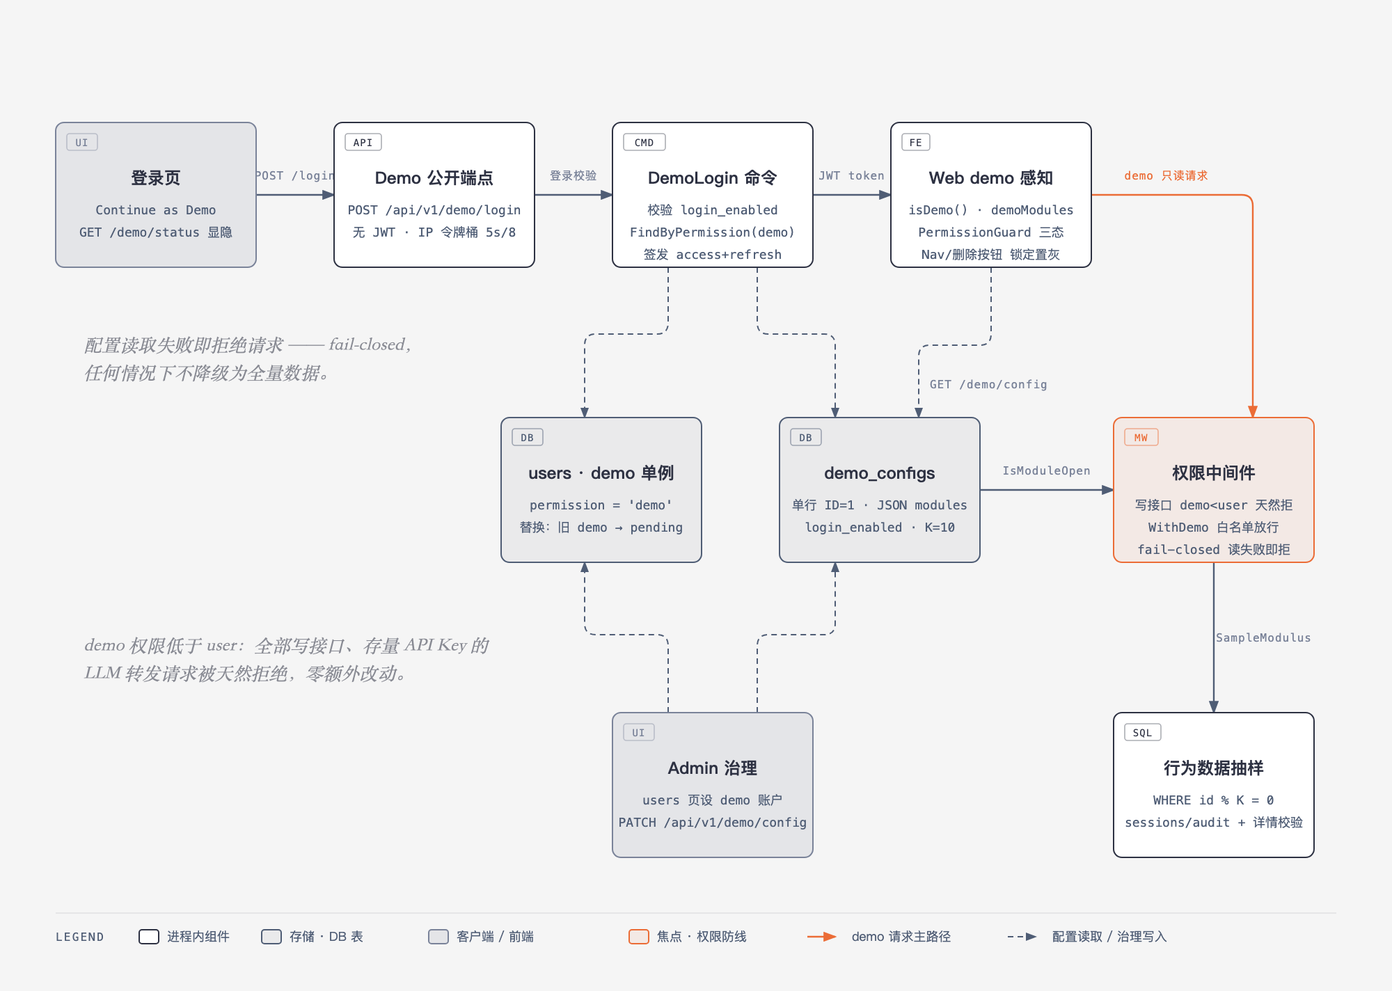
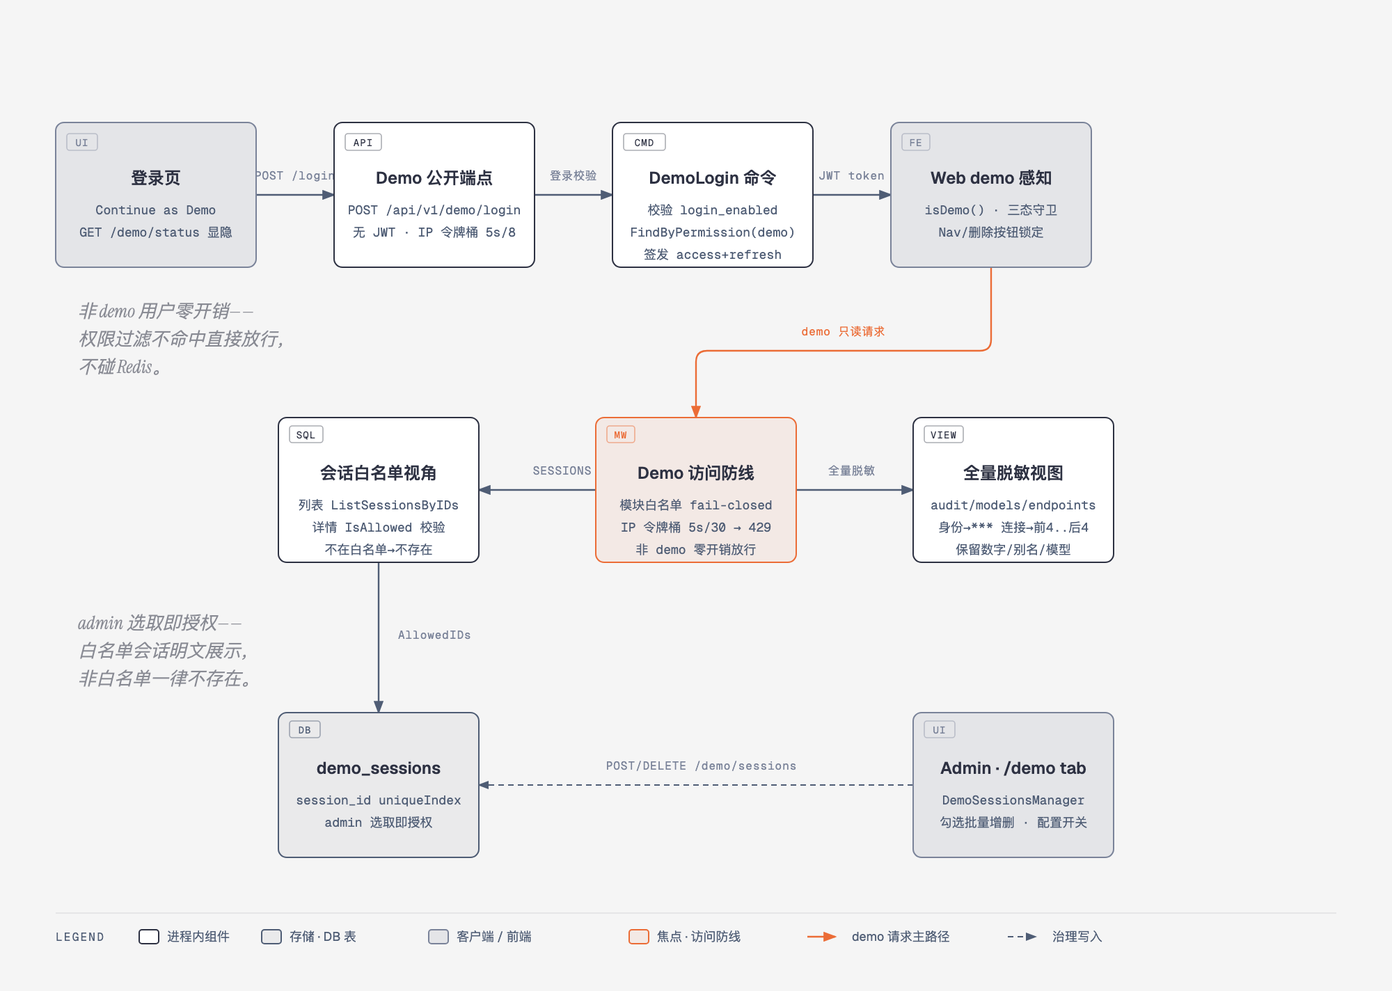
docs(diagrams): 重绘 Demo 演示账户架构图（白名单/脱敏/IP 限流）
针对 018f1ea3 demo 数据展示重设计更新第 13 图：砍掉取模抽样，
改为 demo_sessions 白名单（列表 ListSessionsByIDs · 详情 IsAllowed
防遍历）+ audit/models/endpoints 全量脱敏（MaskIdentity/MaskSecret）
+ demoAccess IP 令牌桶 5s/30（WithPermissionFilter 非 demo 零开销）
+ admin 独立 /demo tab 治理；README demo 段落同步更新。

diff --git a/docs/diagrams/aris-proxy-api-architecture.html b/docs/diagrams/aris-proxy-api-architecture.html
@@ -1941,15 +1941,15 @@
     </div>
 
     <!-- ============================================================ -->
-    <!-- 图 13 · Demo 演示账户架构 → aris-demo-account.png -->
+    <!-- 图 13 · Demo 演示账户架构（白名单重设计）→ aris-demo-account.png -->
     <!-- ============================================================ -->
     <div class="section">
-      <div class="section-head"><span class="idx">13</span><h2>Demo 演示账户架构</h2></div>
-      <p class="section-sub">四级权限 pending(1) &lt; demo(2) &lt; user(3) &lt; admin(4)：登录页「Continue as Demo」经无鉴权 IP 限流端点（5s/8）一键登录，DemoLogin 命令校验 login_enabled 并定位 demo 单例用户签发 JWT；前端 isDemo() + demoModules 驱动 PermissionGuard 三态守卫与 Nav/删除按钮锁定；admin 经 users 页与 PATCH /api/v1/demo/config 治理；运行时权限中间件按模块白名单放行（fail-closed），行为数据 WHERE id % K = 0 抽样，写接口与存量 API Key 因 demo &lt; user 天然拒绝。</p>
+      <div class="section-head"><span class="idx">13</span><h2>Demo 演示账户架构 · 白名单重设计</h2></div>
+      <p class="section-sub">四级权限 pending &lt; demo &lt; user &lt; admin：登录页「Continue as Demo」经 IP 限流端点（5s/8）一键登录签发 JWT；demo 只读请求过访问防线——模块白名单 fail-closed + demoAccess IP 令牌桶 5s/30（WithPermissionFilter 非 demo 零开销，超限 429 + Retry-After）——分两路视角：会话走 demo_sessions 白名单（列表 ListSessionsByIDs · 详情 IsAllowed 不在即"不存在"防遍历），audit/models/endpoints 全量但脱敏（身份 MaskIdentity → *** · 连接类 MaskSecret → 前4..后4 · 保留数字与别名）；admin 在独立 /demo tab 勾选批量增删白名单。</p>
       <div class="diagram-container">
 <svg class="diagram" viewBox="0 0 1000 712" xmlns="http://www.w3.org/2000/svg" role="img" aria-labelledby="demo-title demo-desc">
-            <title id="demo-title">Demo 演示账户架构</title>
-            <desc id="demo-desc">Demo 演示账户架构：登录页一键 Demo 登录经无鉴权 IP 限流端点进入 DemoLogin 命令，校验 login_enabled 并按 permission 定位 demo 单例用户后签发 JWT；前端以 isDemo 与 demoModules 驱动 PermissionGuard 三态守卫和导航、删除按钮锁定；admin 在 users 页设置 demo 账户（旧的降为 pending）并经 PATCH demo config 写入单行配置表（登录开关、模块白名单、抽样模数）；demo 只读请求经权限中间件白名单放行且 fail-closed，行为数据按 id 取模抽样（列表、聚合与详情校验），全部写接口与存量 API Key 的转发因 demo 权限低于 user 被天然拒绝。</desc>
+            <title id="demo-title">Demo 演示账户架构 · 白名单重设计</title>
+            <desc id="demo-desc">Demo 演示账户架构（白名单重设计）：登录页一键 Demo 登录经 IP 限流端点与 DemoLogin 命令签发 JWT；demo 只读请求先过访问防线——模块白名单 fail-closed 与 demoAccess IP 令牌桶（5s/30，超限 429），非 demo 用户权限过滤零开销放行；随后分两路：会话按 demo_sessions 白名单视角查询（列表按 ID 集合、详情校验成员、不在白名单返回不存在以防遍历），audit/models/endpoints 全量返回但身份字段脱敏为星号、连接字段保留首尾四字符，统计数字与别名保留；admin 在独立 demo tab 勾选批量增删白名单会话。</desc>
             <rect width="100%" height="100%" fill="#f5f5f5"/>
 
             <!-- ARROWS (before nodes) -->
@@ -1966,33 +1966,29 @@
             <rect x="586" y="120" width="52" height="12" rx="2" fill="#f5f5f5"/>
             <text x="612" y="129" fill="#7a8399" font-size="8" font-family="'Geist Mono', monospace" text-anchor="middle" letter-spacing="0.06em">JWT token</text>
 
-            <!-- demo 只读请求（accent 主路径） -->
-            <path d="M 784,140 H 892 Q 900,140 900,148 V 300" fill="none" stroke="#eb6c36" stroke-width="1.2" marker-end="url(#arrow-accent)"/>
-            <rect x="800" y="120" width="76" height="12" rx="2" fill="#f5f5f5"/>
-            <text x="838" y="129" fill="#eb6c36" font-size="8" font-family="'Geist Mono', monospace" text-anchor="middle" letter-spacing="0.06em">demo 只读请求</text>
+            <!-- D → E demo 只读请求（accent 主路径，elbow 下落） -->
+            <path d="M 712,192 V 244 Q 712,252 704,252 H 508 Q 500,252 500,260 V 300" fill="none" stroke="#eb6c36" stroke-width="1.2" marker-end="url(#arrow-accent)"/>
+            <rect x="562" y="232" width="88" height="12" rx="2" fill="#f5f5f5"/>
+            <text x="606" y="241" fill="#eb6c36" font-size="8" font-family="'Geist Mono', monospace" text-anchor="middle" letter-spacing="0.06em">demo 只读请求</text>
 
-            <!-- C → E / C → F（登录时读用户与配置，虚线） -->
-            <path d="M 480,192 V 232 Q 480,240 472,240 H 428 Q 420,240 420,248 V 300" fill="none" stroke="#4f5d75" stroke-width="1" stroke-dasharray="4,3" marker-end="url(#arrow)"/>
-            <path d="M 544,192 V 232 Q 544,240 552,240 H 592 Q 600,240 600,248 V 300" fill="none" stroke="#4f5d75" stroke-width="1" stroke-dasharray="4,3" marker-end="url(#arrow)"/>
+            <!-- E → G / E → H（视角分叉） -->
+            <path d="M 428,352 H 344" fill="none" stroke="#4f5d75" stroke-width="1.2" marker-end="url(#arrow)"/>
+            <rect x="376" y="332" width="56" height="12" rx="2" fill="#f5f5f5"/>
+            <text x="404" y="341" fill="#7a8399" font-size="8" font-family="'Geist Mono', monospace" text-anchor="middle" letter-spacing="0.06em">SESSIONS</text>
 
-            <!-- D → F（登录后拉模块配置，虚线） -->
-            <path d="M 712,192 V 240 Q 712,248 704,248 H 668 Q 660,248 660,256 V 300" fill="none" stroke="#4f5d75" stroke-width="1" stroke-dasharray="4,3" marker-end="url(#arrow)"/>
-            <rect x="666" y="270" width="69" height="12" rx="2" fill="#f5f5f5"/>
-            <text x="668" y="279" fill="#7a8399" font-size="8" font-family="'Geist Mono', monospace" letter-spacing="0.06em">GET /demo/config</text>
+            <path d="M 572,352 H 656" fill="none" stroke="#4f5d75" stroke-width="1.2" marker-end="url(#arrow)"/>
+            <rect x="580" y="332" width="64" height="12" rx="2" fill="#f5f5f5"/>
+            <text x="612" y="341" fill="#7a8399" font-size="8" font-family="'Geist Mono', monospace" text-anchor="middle" letter-spacing="0.06em">全量脱敏</text>
 
-            <!-- I → E / I → F（admin 治理写入，虚线） -->
-            <path d="M 480,512 V 464 Q 480,456 472,456 H 428 Q 420,456 420,448 V 404" fill="none" stroke="#4f5d75" stroke-width="1" stroke-dasharray="4,3" marker-end="url(#arrow)"/>
-            <path d="M 544,512 V 464 Q 544,456 552,456 H 592 Q 600,456 600,448 V 404" fill="none" stroke="#4f5d75" stroke-width="1" stroke-dasharray="4,3" marker-end="url(#arrow)"/>
+            <!-- G → F（白名单成员校验，label 侧放） -->
+            <path d="M 272,404 V 512" fill="none" stroke="#4f5d75" stroke-width="1.2" marker-end="url(#arrow)"/>
+            <rect x="282" y="450" width="64" height="12" rx="2" fill="#f5f5f5"/>
+            <text x="286" y="459" fill="#7a8399" font-size="8" font-family="'Geist Mono', monospace" letter-spacing="0.06em">AllowedIDs</text>
 
-            <!-- F → G（白名单查询） -->
-            <path d="M 704,352 H 800" fill="none" stroke="#4f5d75" stroke-width="1.2" marker-end="url(#arrow)"/>
-            <rect x="722" y="332" width="60" height="12" rx="2" fill="#f5f5f5"/>
-            <text x="752" y="341" fill="#7a8399" font-size="8" font-family="'Geist Mono', monospace" text-anchor="middle" letter-spacing="0.06em">IsModuleOpen</text>
-
-            <!-- G → H（抽样模数传递） -->
-            <path d="M 872,404 V 512" fill="none" stroke="#4f5d75" stroke-width="1.2" marker-end="url(#arrow)"/>
-            <rect x="878" y="452" width="60" height="12" rx="2" fill="#f5f5f5"/>
-            <text x="908" y="461" fill="#7a8399" font-size="8" font-family="'Geist Mono', monospace" text-anchor="middle" letter-spacing="0.06em">SampleModulus</text>
+            <!-- I → F（admin 治理写入，虚线） -->
+            <path d="M 656,564 H 344" fill="none" stroke="#4f5d75" stroke-width="1" stroke-dasharray="4,3" marker-end="url(#arrow)"/>
+            <rect x="430" y="544" width="148" height="12" rx="2" fill="#f5f5f5"/>
+            <text x="504" y="553" fill="#7a8399" font-size="8" font-family="'Geist Mono', monospace" text-anchor="middle" letter-spacing="0.06em">POST/DELETE /demo/sessions</text>
 
             <!-- NODES · 上排：登录链 -->
             <rect x="40" y="88" width="144" height="104" rx="6" fill="#f5f5f5"/>
@@ -2021,62 +2017,65 @@
             <text x="512" y="186" fill="#4f5d75" font-size="9" font-family="'Geist Mono', monospace" text-anchor="middle">签发 access+refresh</text>
 
             <rect x="640" y="88" width="144" height="104" rx="6" fill="#f5f5f5"/>
-            <rect x="640" y="88" width="144" height="104" rx="6" fill="#ffffff" stroke="#2d3142" stroke-width="1"/>
-            <rect x="648" y="96" width="20" height="12" rx="2" fill="transparent" stroke="rgba(45,49,66,0.40)" stroke-width="0.8"/>
-            <text x="658" y="105" fill="#2d3142" font-size="7" font-family="'Geist Mono', monospace" text-anchor="middle" letter-spacing="0.08em">FE</text>
+            <rect x="640" y="88" width="144" height="104" rx="6" fill="rgba(79,93,117,0.10)" stroke="#7a8399" stroke-width="1"/>
+            <rect x="648" y="96" width="20" height="12" rx="2" fill="transparent" stroke="rgba(122,131,153,0.4)" stroke-width="0.8"/>
+            <text x="658" y="105" fill="#7a8399" font-size="7" font-family="'Geist Mono', monospace" text-anchor="middle" letter-spacing="0.08em">FE</text>
             <text x="712" y="132" fill="#2d3142" font-size="12" font-weight="600" font-family="'Geist', sans-serif" text-anchor="middle">Web demo 感知</text>
-            <text x="712" y="154" fill="#4f5d75" font-size="9" font-family="'Geist Mono', monospace" text-anchor="middle">isDemo() · demoModules</text>
-            <text x="712" y="170" fill="#4f5d75" font-size="9" font-family="'Geist Mono', monospace" text-anchor="middle">PermissionGuard 三态</text>
-            <text x="712" y="186" fill="#4f5d75" font-size="9" font-family="'Geist Mono', monospace" text-anchor="middle">Nav/删除按钮 锁定置灰</text>
+            <text x="712" y="154" fill="#4f5d75" font-size="9" font-family="'Geist Mono', monospace" text-anchor="middle">isDemo() · 三态守卫</text>
+            <text x="712" y="170" fill="#4f5d75" font-size="9" font-family="'Geist Mono', monospace" text-anchor="middle">Nav/删除按钮锁定</text>
 
-            <!-- NODES · 中排：数据与防线 -->
-            <rect x="360" y="300" width="144" height="104" rx="6" fill="#f5f5f5"/>
-            <rect x="360" y="300" width="144" height="104" rx="6" fill="rgba(45,49,66,0.05)" stroke="#4f5d75" stroke-width="1"/>
-            <rect x="368" y="308" width="22" height="12" rx="2" fill="transparent" stroke="rgba(79,93,117,0.50)" stroke-width="0.8"/>
-            <text x="379" y="317" fill="#4f5d75" font-size="7" font-family="'Geist Mono', monospace" text-anchor="middle" letter-spacing="0.08em">DB</text>
-            <text x="432" y="344" fill="#2d3142" font-size="12" font-weight="600" font-family="'Geist', sans-serif" text-anchor="middle">users · demo 单例</text>
-            <text x="432" y="366" fill="#4f5d75" font-size="9" font-family="'Geist Mono', monospace" text-anchor="middle">permission = 'demo'</text>
-            <text x="432" y="382" fill="#4f5d75" font-size="9" font-family="'Geist Mono', monospace" text-anchor="middle">替换：旧 demo → pending</text>
+            <!-- NODES · 中排：访问防线与两路视角 -->
+            <rect x="200" y="300" width="144" height="104" rx="6" fill="#f5f5f5"/>
+            <rect x="200" y="300" width="144" height="104" rx="6" fill="#ffffff" stroke="#2d3142" stroke-width="1"/>
+            <rect x="208" y="306" width="24" height="12" rx="2" fill="transparent" stroke="rgba(45,49,66,0.40)" stroke-width="0.8"/>
+            <text x="220" y="315" fill="#2d3142" font-size="7" font-family="'Geist Mono', monospace" text-anchor="middle" letter-spacing="0.08em">SQL</text>
+            <text x="272" y="344" fill="#2d3142" font-size="12" font-weight="600" font-family="'Geist', sans-serif" text-anchor="middle">会话白名单视角</text>
+            <text x="272" y="366" fill="#4f5d75" font-size="9" font-family="'Geist Mono', monospace" text-anchor="middle">列表 ListSessionsByIDs</text>
+            <text x="272" y="382" fill="#4f5d75" font-size="9" font-family="'Geist Mono', monospace" text-anchor="middle">详情 IsAllowed 校验</text>
+            <text x="272" y="398" fill="#4f5d75" font-size="9" font-family="'Geist Mono', monospace" text-anchor="middle">不在白名单→不存在</text>
 
-            <rect x="560" y="300" width="144" height="104" rx="6" fill="#f5f5f5"/>
-            <rect x="560" y="300" width="144" height="104" rx="6" fill="rgba(45,49,66,0.05)" stroke="#4f5d75" stroke-width="1"/>
-            <rect x="568" y="308" width="22" height="12" rx="2" fill="transparent" stroke="rgba(79,93,117,0.50)" stroke-width="0.8"/>
-            <text x="579" y="317" fill="#4f5d75" font-size="7" font-family="'Geist Mono', monospace" text-anchor="middle" letter-spacing="0.08em">DB</text>
-            <text x="632" y="344" fill="#2d3142" font-size="12" font-weight="600" font-family="'Geist', sans-serif" text-anchor="middle">demo_configs</text>
-            <text x="632" y="366" fill="#4f5d75" font-size="9" font-family="'Geist Mono', monospace" text-anchor="middle">单行 ID=1 · JSON modules</text>
-            <text x="632" y="382" fill="#4f5d75" font-size="9" font-family="'Geist Mono', monospace" text-anchor="middle">login_enabled · K=10</text>
+            <rect x="428" y="300" width="144" height="104" rx="6" fill="#f5f5f5"/>
+            <rect x="428" y="300" width="144" height="104" rx="6" fill="rgba(235,108,54,0.08)" stroke="#eb6c36" stroke-width="1"/>
+            <rect x="436" y="306" width="20" height="12" rx="2" fill="transparent" stroke="rgba(235,108,54,0.50)" stroke-width="0.8"/>
+            <text x="446" y="315" fill="#eb6c36" font-size="7" font-family="'Geist Mono', monospace" text-anchor="middle" letter-spacing="0.08em">MW</text>
+            <text x="500" y="344" fill="#2d3142" font-size="12" font-weight="600" font-family="'Geist', sans-serif" text-anchor="middle">Demo 访问防线</text>
+            <text x="500" y="366" fill="#4f5d75" font-size="9" font-family="'Geist Mono', monospace" text-anchor="middle">模块白名单 fail-closed</text>
+            <text x="500" y="382" fill="#4f5d75" font-size="9" font-family="'Geist Mono', monospace" text-anchor="middle">IP 令牌桶 5s/30 → 429</text>
+            <text x="500" y="398" fill="#4f5d75" font-size="9" font-family="'Geist Mono', monospace" text-anchor="middle">非 demo 零开销放行</text>
 
-            <rect x="800" y="300" width="144" height="104" rx="6" fill="#f5f5f5"/>
-            <rect x="800" y="300" width="144" height="104" rx="6" fill="rgba(235,108,54,0.08)" stroke="#eb6c36" stroke-width="1"/>
-            <rect x="808" y="308" width="24" height="12" rx="2" fill="transparent" stroke="rgba(235,108,54,0.50)" stroke-width="0.8"/>
-            <text x="820" y="317" fill="#eb6c36" font-size="7" font-family="'Geist Mono', monospace" text-anchor="middle" letter-spacing="0.08em">MW</text>
-            <text x="872" y="344" fill="#2d3142" font-size="12" font-weight="600" font-family="'Geist', sans-serif" text-anchor="middle">权限中间件</text>
-            <text x="872" y="366" fill="#4f5d75" font-size="9" font-family="'Geist Mono', monospace" text-anchor="middle">写接口 demo&lt;user 天然拒</text>
-            <text x="872" y="382" fill="#4f5d75" font-size="9" font-family="'Geist Mono', monospace" text-anchor="middle">WithDemo 白名单放行</text>
-            <text x="872" y="398" fill="#4f5d75" font-size="9" font-family="'Geist Mono', monospace" text-anchor="middle">fail-closed 读失败即拒</text>
+            <rect x="656" y="300" width="144" height="104" rx="6" fill="#f5f5f5"/>
+            <rect x="656" y="300" width="144" height="104" rx="6" fill="#ffffff" stroke="#2d3142" stroke-width="1"/>
+            <rect x="664" y="306" width="28" height="12" rx="2" fill="transparent" stroke="rgba(45,49,66,0.40)" stroke-width="0.8"/>
+            <text x="678" y="315" fill="#2d3142" font-size="7" font-family="'Geist Mono', monospace" text-anchor="middle" letter-spacing="0.08em">VIEW</text>
+            <text x="728" y="344" fill="#2d3142" font-size="12" font-weight="600" font-family="'Geist', sans-serif" text-anchor="middle">全量脱敏视图</text>
+            <text x="728" y="366" fill="#4f5d75" font-size="9" font-family="'Geist Mono', monospace" text-anchor="middle">audit/models/endpoints</text>
+            <text x="728" y="382" fill="#4f5d75" font-size="9" font-family="'Geist Mono', monospace" text-anchor="middle">身份→*** 连接→前4..后4</text>
+            <text x="728" y="398" fill="#4f5d75" font-size="9" font-family="'Geist Mono', monospace" text-anchor="middle">保留数字/别名/模型</text>
 
-            <!-- NODES · 下排：治理与抽样 -->
-            <rect x="440" y="512" width="144" height="104" rx="6" fill="#f5f5f5"/>
-            <rect x="440" y="512" width="144" height="104" rx="6" fill="rgba(79,93,117,0.10)" stroke="#7a8399" stroke-width="1"/>
-            <rect x="448" y="520" width="22" height="12" rx="2" fill="transparent" stroke="rgba(122,131,153,0.4)" stroke-width="0.8"/>
-            <text x="459" y="529" fill="#7a8399" font-size="7" font-family="'Geist Mono', monospace" text-anchor="middle" letter-spacing="0.08em">UI</text>
-            <text x="512" y="556" fill="#2d3142" font-size="12" font-weight="600" font-family="'Geist', sans-serif" text-anchor="middle">Admin 治理</text>
-            <text x="512" y="578" fill="#4f5d75" font-size="9" font-family="'Geist Mono', monospace" text-anchor="middle">users 页设 demo 账户</text>
-            <text x="512" y="594" fill="#4f5d75" font-size="9" font-family="'Geist Mono', monospace" text-anchor="middle">PATCH /api/v1/demo/config</text>
+            <!-- NODES · 下排：白名单存储与 admin 治理 -->
+            <rect x="200" y="512" width="144" height="104" rx="6" fill="#f5f5f5"/>
+            <rect x="200" y="512" width="144" height="104" rx="6" fill="rgba(45,49,66,0.05)" stroke="#4f5d75" stroke-width="1"/>
+            <rect x="208" y="518" width="22" height="12" rx="2" fill="transparent" stroke="rgba(79,93,117,0.50)" stroke-width="0.8"/>
+            <text x="219" y="527" fill="#4f5d75" font-size="7" font-family="'Geist Mono', monospace" text-anchor="middle" letter-spacing="0.08em">DB</text>
+            <text x="272" y="556" fill="#2d3142" font-size="12" font-weight="600" font-family="'Geist', sans-serif" text-anchor="middle">demo_sessions</text>
+            <text x="272" y="578" fill="#4f5d75" font-size="9" font-family="'Geist Mono', monospace" text-anchor="middle">session_id uniqueIndex</text>
+            <text x="272" y="594" fill="#4f5d75" font-size="9" font-family="'Geist Mono', monospace" text-anchor="middle">admin 选取即授权</text>
 
-            <rect x="800" y="512" width="144" height="104" rx="6" fill="#f5f5f5"/>
-            <rect x="800" y="512" width="144" height="104" rx="6" fill="#ffffff" stroke="#2d3142" stroke-width="1"/>
-            <rect x="808" y="520" width="26" height="12" rx="2" fill="transparent" stroke="rgba(45,49,66,0.40)" stroke-width="0.8"/>
-            <text x="821" y="529" fill="#2d3142" font-size="7" font-family="'Geist Mono', monospace" text-anchor="middle" letter-spacing="0.08em">SQL</text>
-            <text x="872" y="556" fill="#2d3142" font-size="12" font-weight="600" font-family="'Geist', sans-serif" text-anchor="middle">行为数据抽样</text>
-            <text x="872" y="578" fill="#4f5d75" font-size="9" font-family="'Geist Mono', monospace" text-anchor="middle">WHERE id % K = 0</text>
-            <text x="872" y="594" fill="#4f5d75" font-size="9" font-family="'Geist Mono', monospace" text-anchor="middle">sessions/audit + 详情校验</text>
+            <rect x="656" y="512" width="144" height="104" rx="6" fill="#f5f5f5"/>
+            <rect x="656" y="512" width="144" height="104" rx="6" fill="rgba(79,93,117,0.10)" stroke="#7a8399" stroke-width="1"/>
+            <rect x="664" y="518" width="22" height="12" rx="2" fill="transparent" stroke="rgba(122,131,153,0.4)" stroke-width="0.8"/>
+            <text x="675" y="527" fill="#7a8399" font-size="7" font-family="'Geist Mono', monospace" text-anchor="middle" letter-spacing="0.08em">UI</text>
+            <text x="728" y="556" fill="#2d3142" font-size="12" font-weight="600" font-family="'Geist', sans-serif" text-anchor="middle">Admin · /demo tab</text>
+            <text x="728" y="578" fill="#4f5d75" font-size="9" font-family="'Geist Mono', monospace" text-anchor="middle">DemoSessionsManager</text>
+            <text x="728" y="594" fill="#4f5d75" font-size="9" font-family="'Geist Mono', monospace" text-anchor="middle">勾选批量增删 · 配置开关</text>
 
             <!-- Editorial asides -->
-            <text x="60" y="252" fill="rgba(45,49,66,0.55)" font-size="13" font-family="'Instrument Serif', serif" font-style="italic">配置读取失败即拒绝请求 —— fail-closed，</text>
-            <text x="60" y="272" fill="rgba(45,49,66,0.55)" font-size="13" font-family="'Instrument Serif', serif" font-style="italic">任何情况下不降级为全量数据。</text>
-            <text x="60" y="468" fill="rgba(45,49,66,0.55)" font-size="13" font-family="'Instrument Serif', serif" font-style="italic">demo 权限低于 user：全部写接口、存量 API Key 的</text>
-            <text x="60" y="488" fill="rgba(45,49,66,0.55)" font-size="13" font-family="'Instrument Serif', serif" font-style="italic">LLM 转发请求被天然拒绝，零额外改动。</text>
+            <text x="56" y="228" fill="rgba(45,49,66,0.55)" font-size="13" font-family="'Instrument Serif', serif" font-style="italic">非 demo 用户零开销——</text>
+            <text x="56" y="248" fill="rgba(45,49,66,0.55)" font-size="13" font-family="'Instrument Serif', serif" font-style="italic">权限过滤不命中直接放行，</text>
+            <text x="56" y="268" fill="rgba(45,49,66,0.55)" font-size="13" font-family="'Instrument Serif', serif" font-style="italic">不碰 Redis。</text>
+            <text x="56" y="452" fill="rgba(45,49,66,0.55)" font-size="13" font-family="'Instrument Serif', serif" font-style="italic">admin 选取即授权——</text>
+            <text x="56" y="472" fill="rgba(45,49,66,0.55)" font-size="13" font-family="'Instrument Serif', serif" font-style="italic">白名单会话明文展示，</text>
+            <text x="56" y="492" fill="rgba(45,49,66,0.55)" font-size="13" font-family="'Instrument Serif', serif" font-style="italic">非白名单一律不存在。</text>
 
             <!-- Legend -->
             <line x1="40" y1="656" x2="960" y2="656" stroke="rgba(45,49,66,0.10)" stroke-width="0.8"/>
@@ -2088,11 +2087,11 @@
             <rect x="308" y="668" width="14" height="10" rx="2" fill="rgba(79,93,117,0.10)" stroke="#7a8399" stroke-width="1"/>
             <text x="328" y="676" fill="#4f5d75" font-size="9" font-family="'Geist', sans-serif">客户端 / 前端</text>
             <rect x="452" y="668" width="14" height="10" rx="2" fill="rgba(235,108,54,0.08)" stroke="#eb6c36" stroke-width="1"/>
-            <text x="472" y="676" fill="#4f5d75" font-size="9" font-family="'Geist', sans-serif">焦点 · 权限防线</text>
+            <text x="472" y="676" fill="#4f5d75" font-size="9" font-family="'Geist', sans-serif">焦点 · 访问防线</text>
             <line x1="580" y1="673" x2="600" y2="673" stroke="#eb6c36" stroke-width="1.2" marker-end="url(#arrow-accent)"/>
             <text x="612" y="676" fill="#4f5d75" font-size="9" font-family="'Geist', sans-serif">demo 请求主路径</text>
             <line x1="724" y1="673" x2="744" y2="673" stroke="#4f5d75" stroke-width="1" stroke-dasharray="4,3" marker-end="url(#arrow)"/>
-            <text x="756" y="676" fill="#4f5d75" font-size="9" font-family="'Geist', sans-serif">配置读取 / 治理写入</text>
+            <text x="756" y="676" fill="#4f5d75" font-size="9" font-family="'Geist', sans-serif">治理写入</text>
           </svg>
       </div>
     </div>
